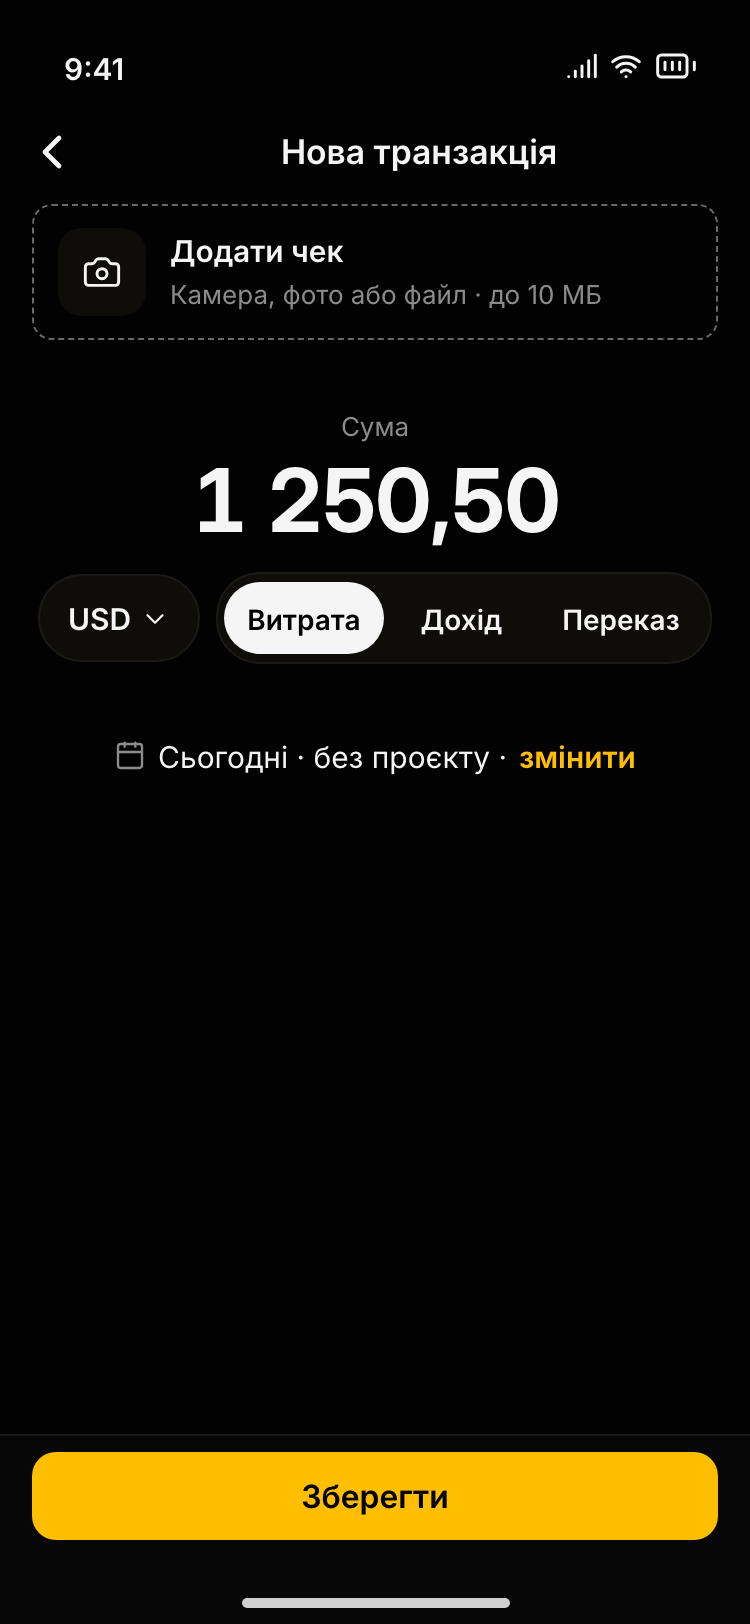
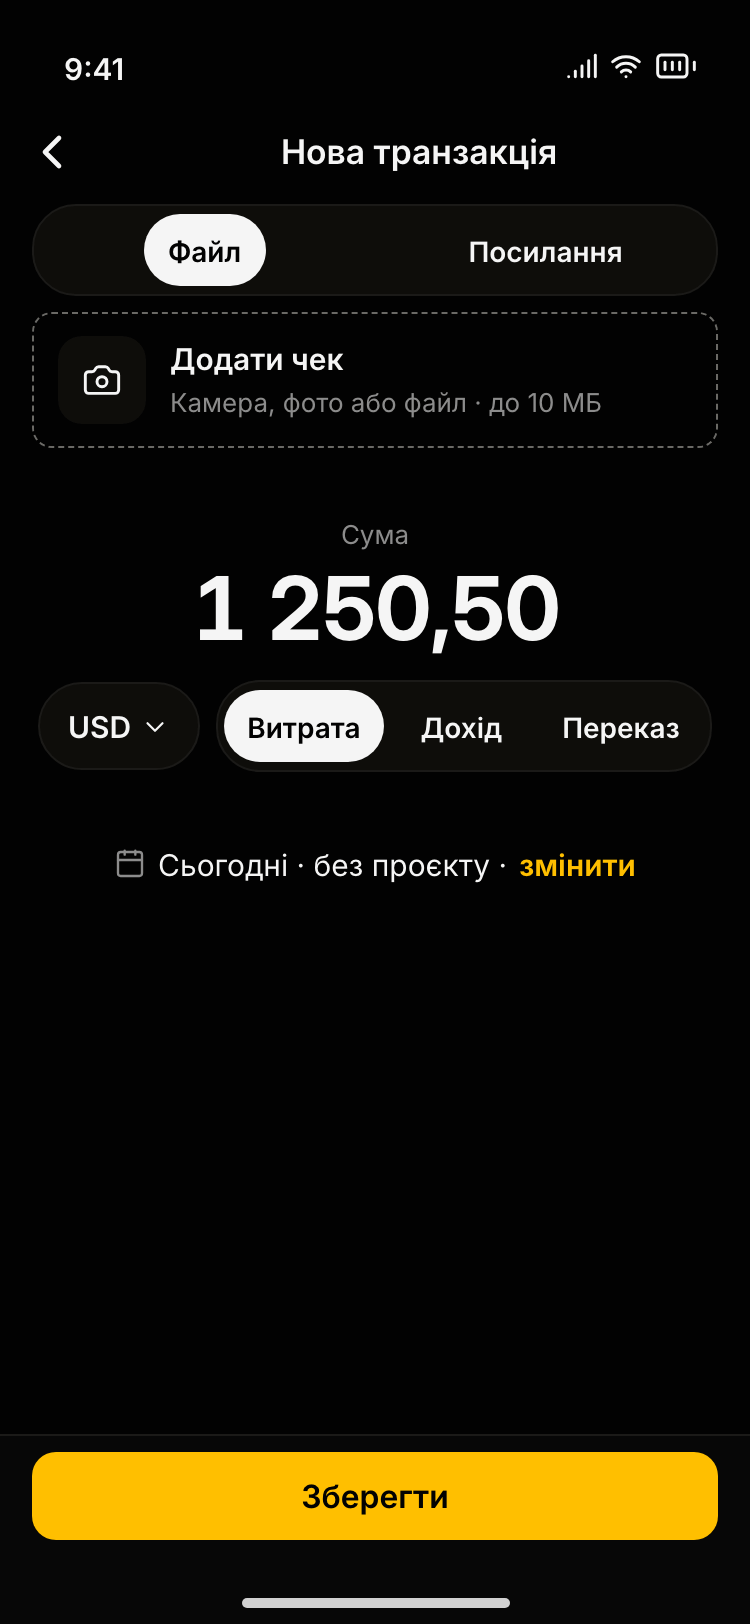
wip: docs(design): receipt modes, detail pages, add-user form, keyboard table (fix6 A)

diff --git a/docs/design/screens/_foundation/primitives-v2.md b/docs/design/screens/_foundation/primitives-v2.md
@@ -31,9 +31,11 @@
 | Confirm dialog            | `ui/alert-dialog.tsx`                                                                                         | restyle                      | `sheet-confirm-dialog-1024`                                                                                                                                                                                |
 | List row                  | —                                                                                                             | NEW `ListRow`                | `listrow-variants-375`, `listrow-swipe-375`, `listrow-sticky-320`, `listrow-empty-error-375`, `listrow-768`, `listrow-1440`                                                                                |
 | Section header            | —                                                                                                             | NEW `ListSection`            | `section-header-375`                                                                                                                                                                                       |
+| Pushed detail page        | —                                                                                                             | NEW `DetailPage`             | `detail-txn-375`, `detail-person-375`                                                                                                                                                                      |
+| Receipt viewer            | Base UI Dialog (full screen)                                                                                  | NEW                          | `detail-txn-receipt-375`                                                                                                                                                                                   |
 | Table row states          | `ui/table.tsx`                                                                                                | restyle                      | `listrow-table-desktop`                                                                                                                                                                                    |
-| Form field                | `ui/input.tsx`, `ui/label.tsx`                                                                                | restyle (16 px, 48 h mobile) | `form-states-375`, `formfield-768`, `formfield-1440`                                                                                                                                                       |
-| Money field + receipt     | `ui/amount-currency-input.tsx`, `ui/image-upload-field.tsx`                                                   | restyle                      | `form-money-375`, `form-keyboard-375`, `sheet-large-375` (one canonical form: `assets/src/money-form.mjs`)                                                                                                 |
+| Form field                | `ui/input.tsx`, `ui/label.tsx`                                                                                | restyle (16 px, 48 h mobile) | `form-states-375`, `form-add-user-375`, `formfield-768`, `formfield-1440`                                                                                                                                  |
+| Money field + receipt     | `ui/amount-currency-input.tsx`, `ui/image-upload-field.tsx`                                                   | restyle                      | `form-money-375`, `form-receipt-link-375`, `form-receipt-usdt-375`, `form-keyboard-375`, `sheet-large-375` (one canonical form: `assets/src/money-form.mjs`)                                               |
 | Segmented control, switch | `ui/segmented-toggle.tsx`, `ui/switch.tsx`                                                                    | restyle                      | `form-money-375`, `sheet-medium-375`                                                                                                                                                                       |
 | Undo toast                | `ui/sonner.tsx`                                                                                               | restyle                      | `toast-undo-375`, `toast-undo-768`, `toast-undo-1440`                                                                                                                                                      |
 | Save error (inline)       | `ui/alert.tsx`                                                                                                | restyle                      | `toast-error-definite-375`, `toast-error-offline-375`, `toast-error-unknown-375`, `toast-error-unknown-list-375`                                                                                           |
@@ -117,6 +119,20 @@ pushed detail** (a file, a receipt) shows a visible 44 px «…» button (`aria-
 row with a detail opens the same menu as a shortcut, never the only path. Rows set
 `-webkit-touch-callout: none` so the long-press does not raise the iOS link / image callout.
 
+**Pushed detail page** (`detail-txn-375`, `detail-person-375`): the target of a row with a detail, and
+the home of that row's swipe actions. Inline title + back; on the right a 44 px text button
+«Редагувати» (the edit entry) and a 44 px «…» (`aria-label` «Інші дії», `aria-haspopup="menu"`) for the
+rest (delete asks with the action sheet). **Transaction:** the description, the amount 40/46 700
+`tabular-nums` (never truncated), the type pill, then a key-value group (Платник, Отримувач, Дата,
+Проєкт as a link row, Створив; long values wrap, they do not truncate), then «Чек»: a 56 px thumbnail
+row («торкніться, щоб збільшити», `aria-label` «Переглянути чек на весь екран»). A link receipt is the
+same row with the host name and opens in the browser. The tap opens the **full-screen viewer**
+(`detail-txn-receipt-375`): a `role="dialog"` on black, the file name, a 44 px ✕ «Закрити» top-left,
+pinch and double-tap to zoom, Esc and a swipe down also close, focus returns to the thumbnail.
+**Person:** a 72 px avatar with initials, name, «роль · команда», then «Контакти» as tappable 56 px
+rows (`tel:`, `mailto:`, Telegram; the accessible name says the action, «Подзвонити: …»), then
+«Робота» (Роль, Команда and Проєкти as link rows).
+
 **Sticky section header** (`listrow-sticky-320`, `section-header-375`): overline 12/16 uppercase, 92%
 translucent bar with blur while stuck; date sections show the day total on the right (`tabular-nums`).
 Long titles truncate on one line with the full text as the accessible name.
@@ -125,11 +141,32 @@ Long titles truncate on one line with the full text as the accessible name.
 
 ## 4. Forms
 
-**Field states** (`form-states-375`): label above (15/20), input 48 h (mobile) / 36 h (desktop), 16 px
-text, `--input-border` outline, `--placeholder` text. Focus: yellow border + 3 px soft ring. Error:
+**Field states** (`form-states-375`, a profile edit «Редагувати профіль»): label above (15/20), input
+48 h (mobile) / 36 h (desktop), 16 px text, `--input-border` outline, `--placeholder` text. The frame
+shows filled, focus, error, a PickerSheet field (Роль, enabled: a tap opens the PickerSheet) and a
+disabled field with its reason («Email для входу» · «Привʼязаний до Google-акаунта»). Focus: yellow border + 3 px soft ring. Error:
 destructive border + icon + message under the field (`aria-describedby`, `aria-invalid`). Disabled:
 50% opacity + dashed border + a reason line («Роль змінює адміністратор»). Helper text 13/18 muted.
 Validation on blur for format, on submit for required.
+
+**Add user** (`form-add-user-375`): a pushed form «Новий користувач»: Імʼя, Email (hint «На цю адресу
+прийде запрошення»), Роль and Команда as PickerSheet fields, the primary «Додати» in the bottom bar.
+
+**Field → keyboard** (every mobile input sets these; the mock inputs carry them as attributes):
+
+| Field         | `type`   | `inputmode` | `autocomplete`  | `autocapitalize` | `enterkeyhint`    | Also                                     |
+| ------------- | -------- | ----------- | --------------- | ---------------- | ----------------- | ---------------------------------------- |
+| Email         | `email`  | `email`     | `email`         | `none`           | `next`            | `autocorrect=off`, `spellcheck=false`    |
+| Phone         | `tel`    | `tel`       | `tel`           | —                | `next`            |                                          |
+| Name          | `text`   | `text`      | `name`          | `words`          | `next`            |                                          |
+| URL (receipt) | `url`    | `url`       | `off`           | `none`           | `done`            | `autocorrect=off`, `spellcheck=false`    |
+| Amount        | `text`   | `decimal`   | `off`           | —                | `done`            | parsed, never `type=number` (§4 parsing) |
+| Search        | `search` | `search`    | `off`           | `none`           | `search`          | `autocorrect=off`                        |
+| OTP / code    | `text`   | `numeric`   | `one-time-code` | `none`           | `done`            | `pattern="[0-9]*"`                       |
+| Long text     | —        | `text`      | `off`           | `sentences`      | `enter` (newline) | `textarea`; the save is a button         |
+
+The last field of a form uses `enterkeyhint="done"`; Enter on it submits only where the form has a
+single primary and no textarea.
 
 **At 768 / 1440** (`formfield-768`, `formfield-1440`): the tablet keeps 48 h / 16 px (touch, no iOS zoom)
 in two columns; the desktop field is 36 h / 14 px with a 13 px label and 12 px helper, target ≥ 24 px
@@ -142,10 +179,20 @@ under it a 44 px currency pill and a 44 px segmented type control (36 px visual 
 area) over the role's existing create types (the frame shows the ADMIN set Витрата / Дохід / Переказ =
 `EXPENSE` / `ADMIN_INCOME` / `ADMIN_TRANSFER`; the Wave 1 finance spec owns the exact set per role).
 The optional fields are collapsed into a 44 px defaults row that names what will be saved: «Сьогодні ·
-без проєкту · змінити»; a tap expands Дата / Проєкт / Опис. Receipt: one dashed tile «Додати чек —
-Камера, фото або файл · до 10 МБ» (one file input without `capture`, so iOS offers its native chooser);
-once added, a card with the thumbnail, the status line, **«Замінити»** and **«✕»** (`aria-label`
-«Видалити чек»), both 44 × 44. The pushed page (`form-money-375`) renders the same defaults row as the
+без проєкту · змінити»; a tap expands Дата / Проєкт / Опис. **The receipt is mandatory: exactly one
+of a file or a link** (`receiptMandatoryError` in `packages/shared/src/schemas/finance/validation.ts`,
+both at once is refused too). The empty tile has two modes, **«Файл» / «Посилання»**
+(a 44 px segmented control): «Файл» is one dashed tile «Додати чек — Камера, фото або файл · до 10 МБ»
+(one file input without `capture`, so iOS offers its native chooser); «Посилання» is a URL field
+«Посилання на чек» (`form-receipt-link-375`; any `http(s)` link). Once a file is added, a card with the
+thumbnail, the status line, **«Замінити»** and **«✕»** (`aria-label` «Видалити чек»), both 44 × 44,
+replaces the switch (remove the file to switch to a link). **Effective currency USDT: a link only**,
+and it must be a blockchain-explorer link: the file mode is gone and the field reads «Посилання на
+транзакцію в блокчейн-експлорері» (`form-receipt-usdt-375`). The link field is `type=url`,
+`inputmode=url`, `autocapitalize=none`, `autocorrect=off`, `enterkeyhint=done`. **A save without a
+receipt:** the primary stays enabled (house rule); a tap focuses the receipt and shows the inline
+error «Додайте чек: файл або посилання» (USDT: «Для USDT потрібне посилання на транзакцію в
+експлорері», also for a link that is not an explorer link). No path saves without a receipt. The pushed page (`form-money-375`) renders the same defaults row as the
 sheet, not expanded fields.
 
 - **Defaults** (what the defaults row names): type and currency = the last used **on this device**;

diff --git a/docs/design/screens/_foundation/shell-v2.md b/docs/design/screens/_foundation/shell-v2.md
@@ -105,8 +105,9 @@ tab bar holds **4 destinations + «Ще»**. «Ще» holds everything else, gro
   no sheet opens by itself. Backgrounding the app does not disarm; a page kill is reported at the next
   boot by the marker's phase (`armed`: not saved; `sent`: check the list, no resubmit). **One money draft per session:** while a draft exists, «+» reopens it. The full lifecycle is
   the state table in foundation §11. An upload failure disarms the save and shows its error on the
-  receipt card; the user may replace the file or remove it («✕ Видалити чек») and save without a
-  receipt.
+  receipt card; the user replaces the file, or removes it («✕ Видалити чек») and adds another file or a
+  link. The receipt is mandatory (a file or a link; USDT: an explorer link only), so no path saves
+  without one (primitives-v2 §4).
 
 ### More sheet
 
